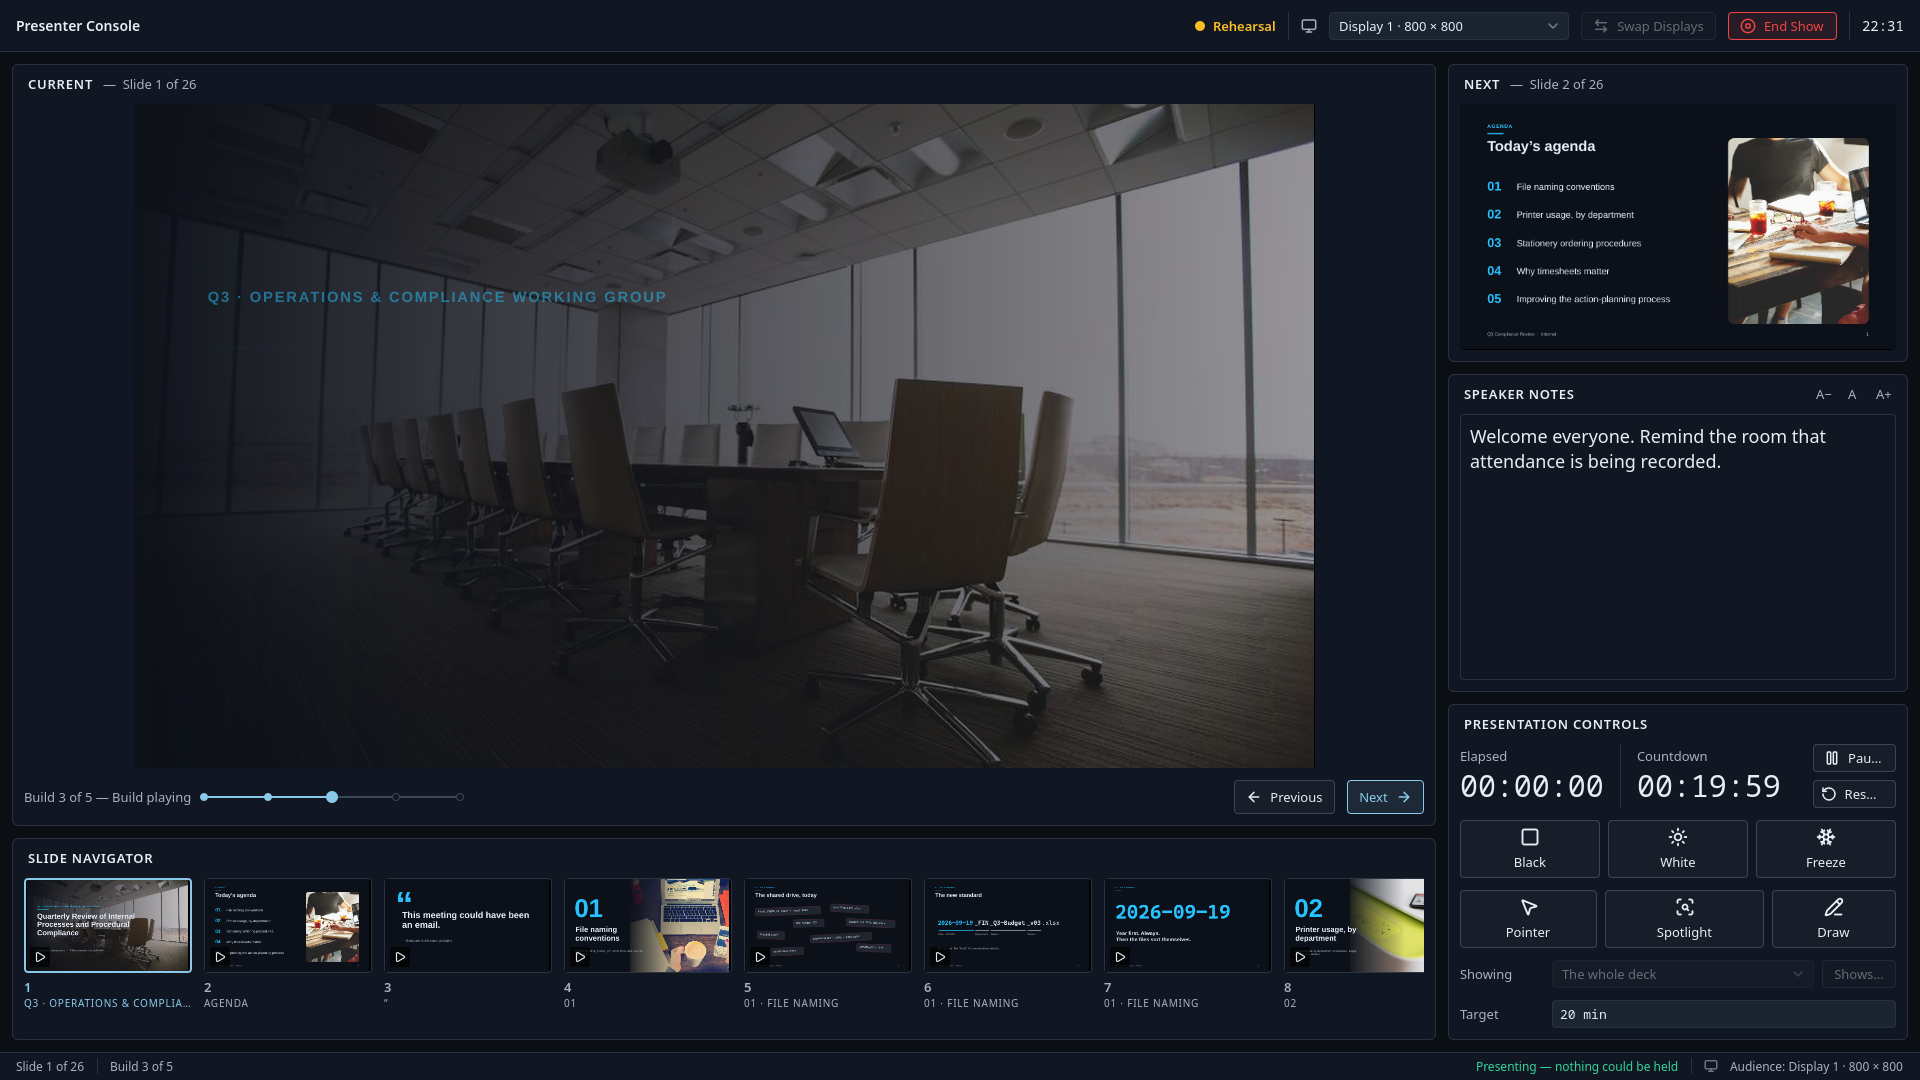
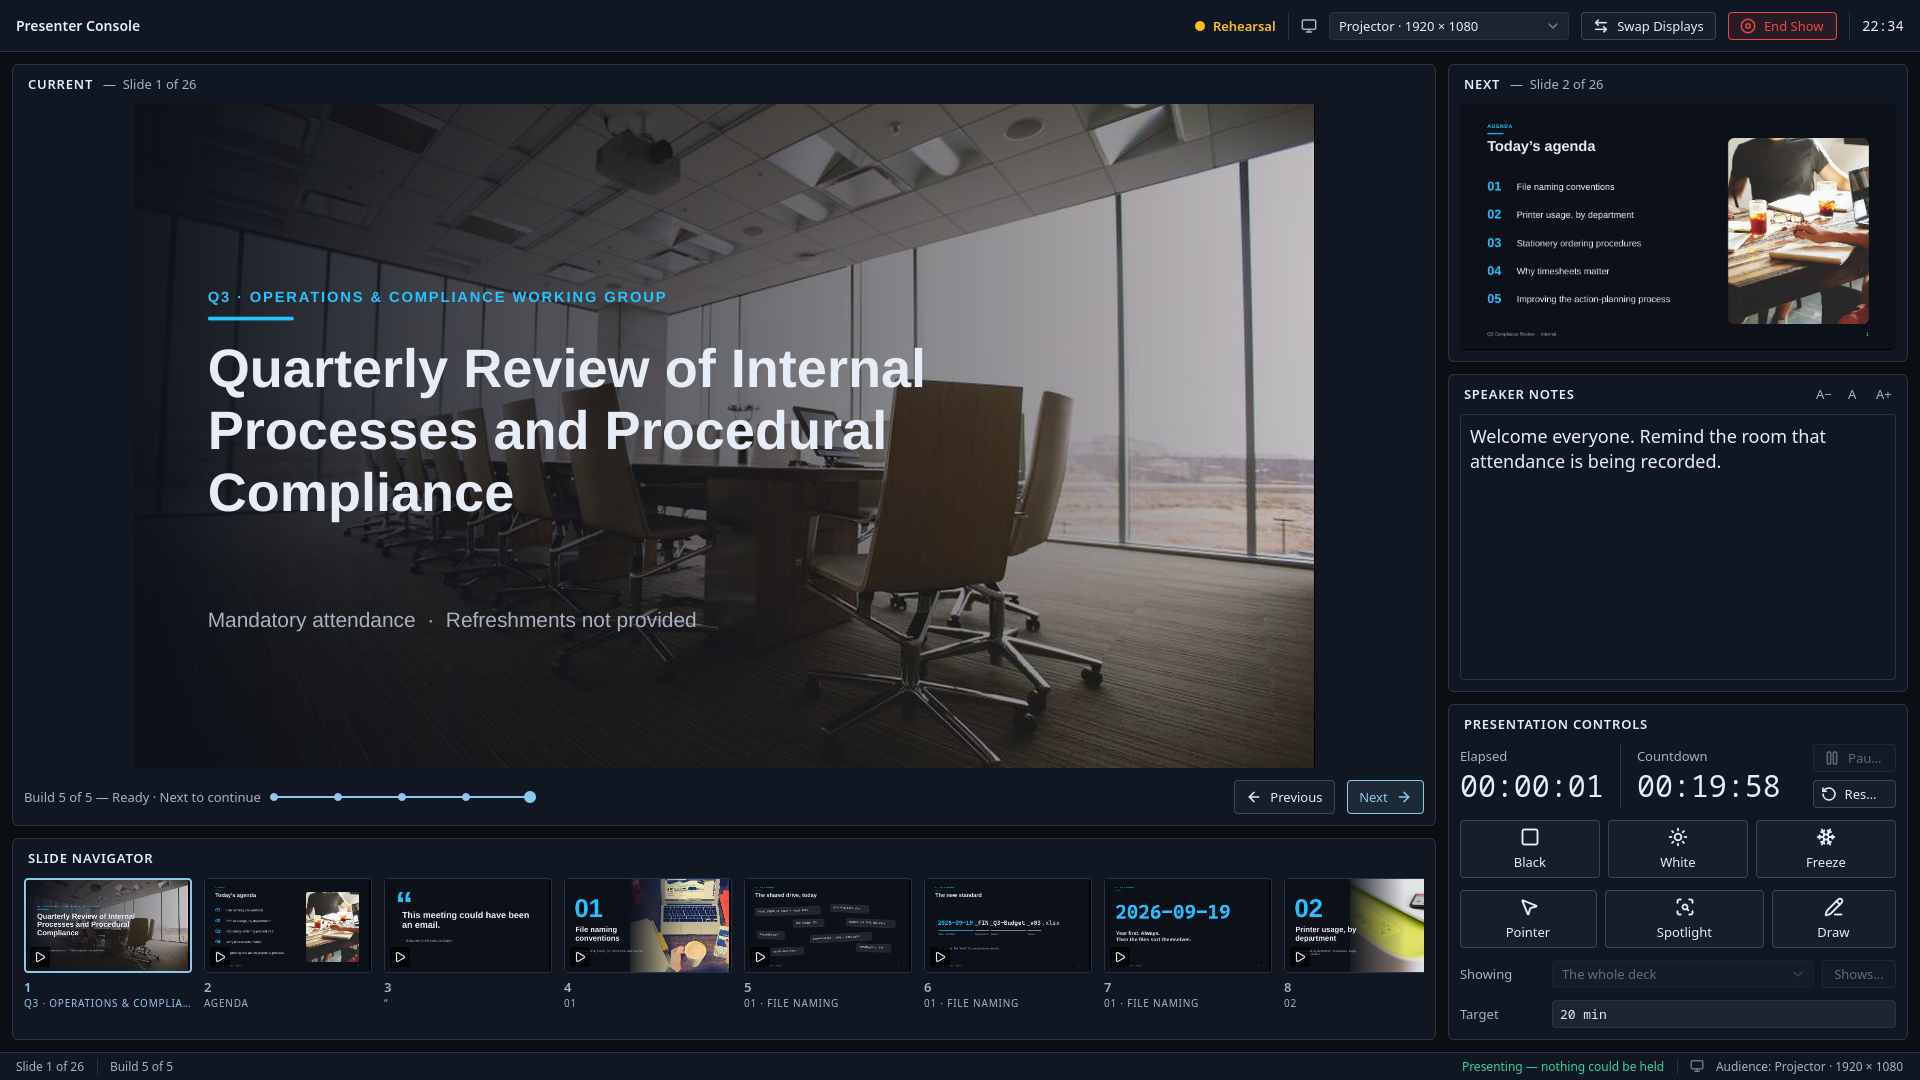
Show the presenter console on a settled slide in the screenshots
The interface capture now waits for the first slide's builds to finish
before photographing the presenter console, rather than catching the
title half-way in.

diff --git a/src/main.cpp b/src/main.cpp
@@ -133,6 +133,8 @@ int captureInterface(QQmlApplicationEngine &engine, Backend &backend, Presenter 
     }
     // The presenter console, rehearsing so no display has to exist.
     presenter.start(false, true);
+    // Let the first slide's builds finish, so the console shows a settled slide.
+    for (int waited = 0; backend.playing() && waited < 15000; waited += 100) settle(100);
     for (QObject *root : engine.rootObjects())
         for (auto *console : root->findChildren<QQuickWindow *>(QStringLiteral("presenterConsole"))) {
             console->resize(size);
